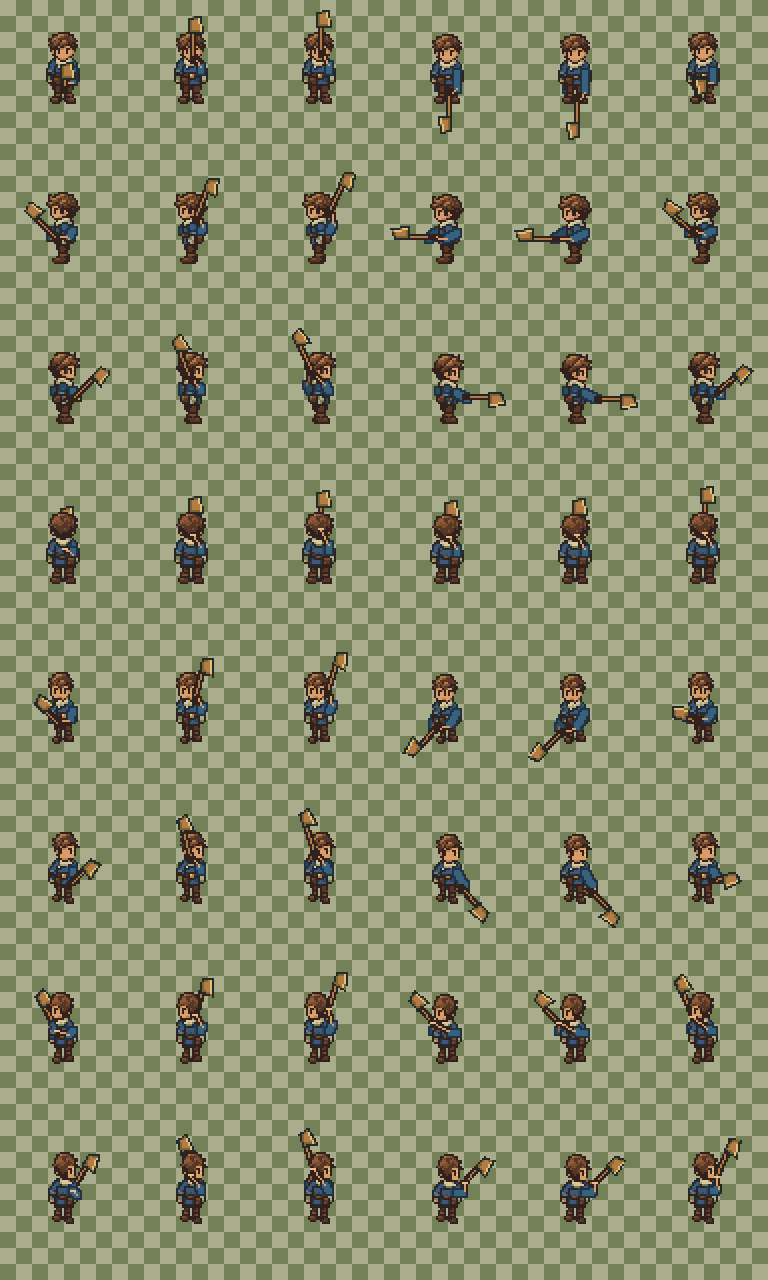
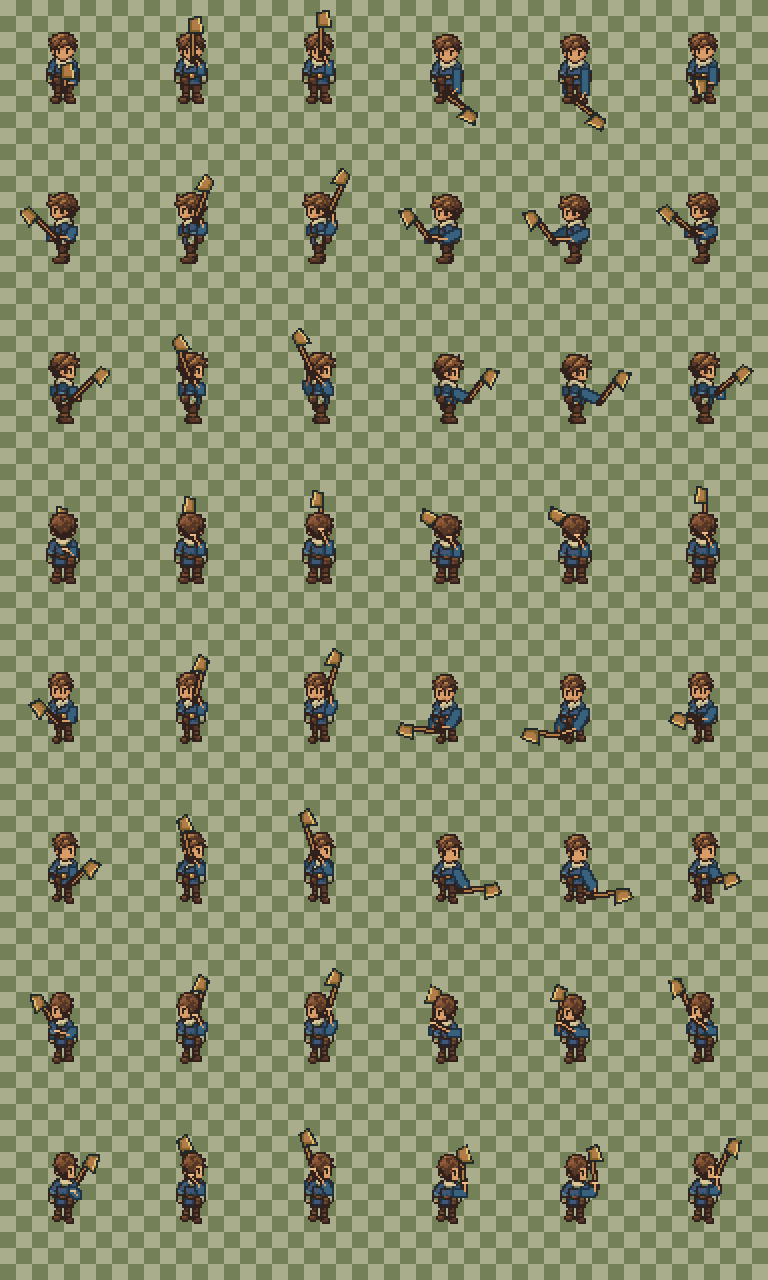
fix: orient woodcutting axe blades toward the target

diff --git a/tools/art/woodcutting_pilot.js b/tools/art/woodcutting_pilot.js
@@ -24,6 +24,13 @@ function geometry(direction, pose) {
     [32+dx*11,38+dy*10],[32+dx*13,39+dy*12],[32+dx*8,34+dy*8]];
   var heads = [[32+dx*17,26+dy*9],[32-dx*8,12],[32-dx*12,9],
     [32+dx*24,38+dy*24],[32+dx*26,39+dy*26],[32+dx*18,25+dy*18]];
+  if (pose === 3 || pose === 4) {
+    // Tilt the shaft across the cut so its blade, rather than its handle tip,
+    // reaches the bark. Mirrored side views keep the head above the hands.
+    var side = dx < 0 ? -1 : 1;
+    heads[pose] = [grips[pose][0]+14*(0.6*dx+0.8*side*dy),
+      grips[pose][1]+14*(0.6*dy-0.8*side*dx)];
+  }
   return {grip:grips[pose], head:heads[pose]};
 }
 function arm(out, shoulder, grip, near) {
@@ -49,6 +56,11 @@ function bodyPose(base, direction, pose) {
 function axePose(direction,pose,tier) {
   var out = canvas(64,80), g = geometry(direction,pose), dx = g.head[0]-g.grip[0], dy = g.head[1]-g.grip[1];
   var length = Math.sqrt(dx*dx+dy*dy), u = [dx/length,dy/length], v = [-dy/length,dx/length];
+  var cut = vectors[direction], toward = v[0]*cut[0]+v[1]*cut[1];
+  // The old fixed perpendicular put the cutting edge on the wrong side for
+  // half the facings. Choose the side toward the target for every pose.
+  if (toward < -0.001 || (Math.abs(toward) <= 0.001 && (cut[0] < 0 || (cut[0] === 0 && cut[1] < 0))))
+    v = [-v[0],-v[1]];
   line(out,[g.grip[0]-u[0]*3,g.grip[1]-u[1]*3],g.head,'30211d',3);
   line(out,g.grip,g.head,'b27c48',1);
   function point(a,b) { return [g.head[0]+u[0]*a+v[0]*b,g.head[1]+u[1]*a+v[1]*b]; }
@@ -69,6 +81,11 @@ if (cfg.regenerate) {
     for (var tier = 0; tier < 3; tier++) blit(axePose(d,p,tier),axes,p*64,(tier*8+d)*80);
   }
 } else { bodies = read(cfg.sources.player); axes = read(cfg.sources.axes); }
+if (cfg.rebuildAxes) {
+  axes = canvas(384,1920);
+  for (var d = 0; d < 8; d++) for (var p = 0; p < 6; p++)
+    for (var tier = 0; tier < 3; tier++) blit(axePose(d,p,tier),axes,p*64,(tier*8+d)*80);
+}
 if (bodies.width !== 384 || bodies.height !== 640 || axes.width !== 384 || axes.height !== 1920) throw new Error('Incorrect woodcutting master geometry');
 [bodies,axes].forEach(function(image) { image.pixels.forEach(function(c) {
   if (pc.rgbaA(c) !== 0 && pc.rgbaA(c) !== 255) throw new Error('Woodcutting requires binary alpha');
@@ -103,8 +120,9 @@ for (var d = 0; d < 8; d++) for (var p = 0; p < 6; p++) {
   }
 }
 if (cfg.regenerate) {
-  save(bodies,cfg.fixtures.player,cfg.sources.player); save(axes,cfg.fixtures.axes,cfg.sources.axes);
+  save(bodies,cfg.fixtures.player,cfg.sources.player);
 }
+if (cfg.regenerate || cfg.rebuildAxes) save(axes,cfg.fixtures.axes,cfg.sources.axes);
 function combined(d,p,tier) {
   var out = canvas(64,80), body = crop(bodies,p*64,d*80,64,80), tool = crop(axes,p*64,(tier*8+d)*80,64,80);
   var behind = d===3||d===6||d===7;

diff --git a/tests/WoodcuttingGraphicsTests.cpp b/tests/WoodcuttingGraphicsTests.cpp
@@ -4,6 +4,7 @@
 #include "../src/World/Map.h"
 #include <array>
 #include <cstdint>
+#include <filesystem>
 #include <set>
 
 struct GraphicsTestAccess
@@ -38,6 +39,39 @@ int main()
     auto *renderer = GraphicsTestAccess::Renderer(graphics);
     auto &sprites = GraphicsTestAccess::Sprites(graphics);
 #if SDL_VERSION_ATLEAST(3,4,0)
+    const auto axePath = std::filesystem::path(reinterpret_cast<const char8_t *>(SDL_GetBasePath())) /
+        "assets/embervale/woodcutting-pilot/textures/axes.png";
+    const auto axeUtf8 = axePath.u8string();
+    SDL_Surface *axePixels = SDL_LoadPNG(reinterpret_cast<const char *>(axeUtf8.c_str()));
+    test.Expect(axePixels != nullptr,"Packaged axe pixels are available for blade-orientation checks");
+    if (axePixels)
+    {
+        const std::array<SDL_FPoint,8> cuts{{{0,1},{-1,0},{1,0},{0,-1},
+            {-0.707f,0.707f},{0.707f,0.707f},{-0.707f,-0.707f},{0.707f,-0.707f}}};
+        const std::array<std::array<Uint8,3>,3> shadows{{{132,98,44},{64,69,66},{55,97,125}}};
+        const std::array<std::array<Uint8,3>,3> edges{{{227,192,115},{166,154,126},{239,224,183}}};
+        for (int tier = 0; tier < 3; ++tier) for (int facing = 0; facing < 8; ++facing)
+            for (int pose : {3,4})
+            {
+                float edgeX=0,edgeY=0,shadowX=0,shadowY=0;
+                int edgeCount=0,shadowCount=0;
+                for (int y=0; y<80; ++y) for (int x=0; x<64; ++x)
+                {
+                    Uint8 r,g,b,a;
+                    SDL_ReadSurfacePixel(axePixels,pose*64+x,(tier*8+facing)*80+y,&r,&g,&b,&a);
+                    if (!a) continue;
+                    const std::array<Uint8,3> rgb{r,g,b};
+                    if (rgb==edges[tier]) { edgeX+=x; edgeY+=y; ++edgeCount; }
+                    if (rgb==shadows[tier]) { shadowX+=x; shadowY+=y; ++shadowCount; }
+                }
+                test.Expect(edgeCount>0 && shadowCount>0,"Each striking axe has a readable head and cutting edge");
+                if (!edgeCount || !shadowCount) continue;
+                const float towardTree=(edgeX/edgeCount-shadowX/shadowCount)*cuts[facing].x+
+                    (edgeY/edgeCount-shadowY/shadowCount)*cuts[facing].y;
+                test.Expect(towardTree>0.35f,"The cutting edge leads toward the tree on contact and follow-through");
+            }
+        SDL_DestroySurface(axePixels);
+    }
     std::set<std::uint64_t> directions;
     for (int facing = 0; facing < 8; ++facing)
     {

diff --git a/tools/art/build_woodcutting_pilot.py b/tools/art/build_woodcutting_pilot.py
@@ -14,7 +14,7 @@ ART = REPO / 'assets/embervale/woodcutting-pilot'
 DIRECTIONS = ['s', 'w', 'e', 'n', 'sw', 'se', 'nw', 'ne']
 
 
-def build(editor, regenerate=False):
+def build(editor, regenerate=False, rebuild_axes=False):
     sizes = {'player': (384, 640), 'axes': (384, 1920)}
     for folder in ['source', 'textures', 'previews']:
         (ART / folder).mkdir(parents=True, exist_ok=True)
@@ -36,7 +36,7 @@ def build(editor, regenerate=False):
             target = temp / f'{name}.png'
             blank_png(target, *size)
             fixtures[name] = target.as_posix()
-        cfg = {'regenerate': regenerate, 'palette': PALETTE, 'fixtures': fixtures,
+        cfg = {'regenerate': regenerate, 'rebuildAxes': rebuild_axes, 'palette': PALETTE, 'fixtures': fixtures,
                'player': (REPO / 'assets/embervale/cast-pilot/source/player.ase').as_posix(),
                'sources': {name: (ART / f'source/{name}.ase').as_posix() for name in sizes},
                'frames': [(temp / f'chop-{i:02}.png').as_posix() for i in range(6)],
@@ -99,6 +99,8 @@ def build(editor, regenerate=False):
 if __name__ == '__main__':
     parser = argparse.ArgumentParser(description=__doc__)
     parser.add_argument('--editor', required=True, type=Path)
-    parser.add_argument('--regenerate', action='store_true', help='Explicitly recreate action masters from the current player outfit')
+    mode = parser.add_mutually_exclusive_group()
+    mode.add_argument('--regenerate', action='store_true', help='Explicitly recreate action masters from the current player outfit')
+    mode.add_argument('--rebuild-axes', action='store_true', help='Rebuild only axe overlays; preserve the saved player action master')
     args = parser.parse_args()
-    build(args.editor.resolve(strict=True), args.regenerate)
+    build(args.editor.resolve(strict=True), args.regenerate, args.rebuild_axes)

diff --git a/docs/embervale/06-development/WOODCUTTING_ANIMATION_2026-11-20.md b/docs/embervale/06-development/WOODCUTTING_ANIMATION_2026-11-20.md
@@ -90,3 +90,14 @@ fixtures cannot be combined with it.
 These checks and captures use dummy video/software rendering. A visible GPU
 playthrough was not performed. The change does not alter save formats, resource
 rates or progression. Mining and combat action art are subsequent slices.
+
+## Axe-blade orientation correction
+
+The first axe overlays used a fixed perpendicular side for the blade, which
+made the cutting edge face away from the tree in some views. The corrected
+overlays select the outward blade side per facing and angle the contact shaft
+so the cutting edge leads into the tree. All three tool tiers are corrected.
+`--rebuild-axes` preserves the player action master while replacing the tools.
+The renderer test now checks the actual edge/head pixels in all 48 combinations
+of direction, tier and contact/follow-through pose; it reproduces the original
+orientation fault and guards the corrected exports.

diff --git a/assets/embervale/woodcutting-pilot/README.md b/assets/embervale/woodcutting-pilot/README.md
@@ -50,6 +50,10 @@ binary alpha, all 48 body cells, connected lower bodies, all 144 axe cells and
 tool clipping. [Contact sheet](previews/chop-contact.png) and
 [validation report](previews/validation.json).
 
+`--rebuild-axes` explicitly replaces only the tool overlays while preserving
+the player action master. The cutting edge follows the tree-facing direction;
+contact and follow-through tilt the shaft so the blade meets the bark.
+
 ## Runtime behavior
 
 The live action must belong to the player, be running, target an active nearby
